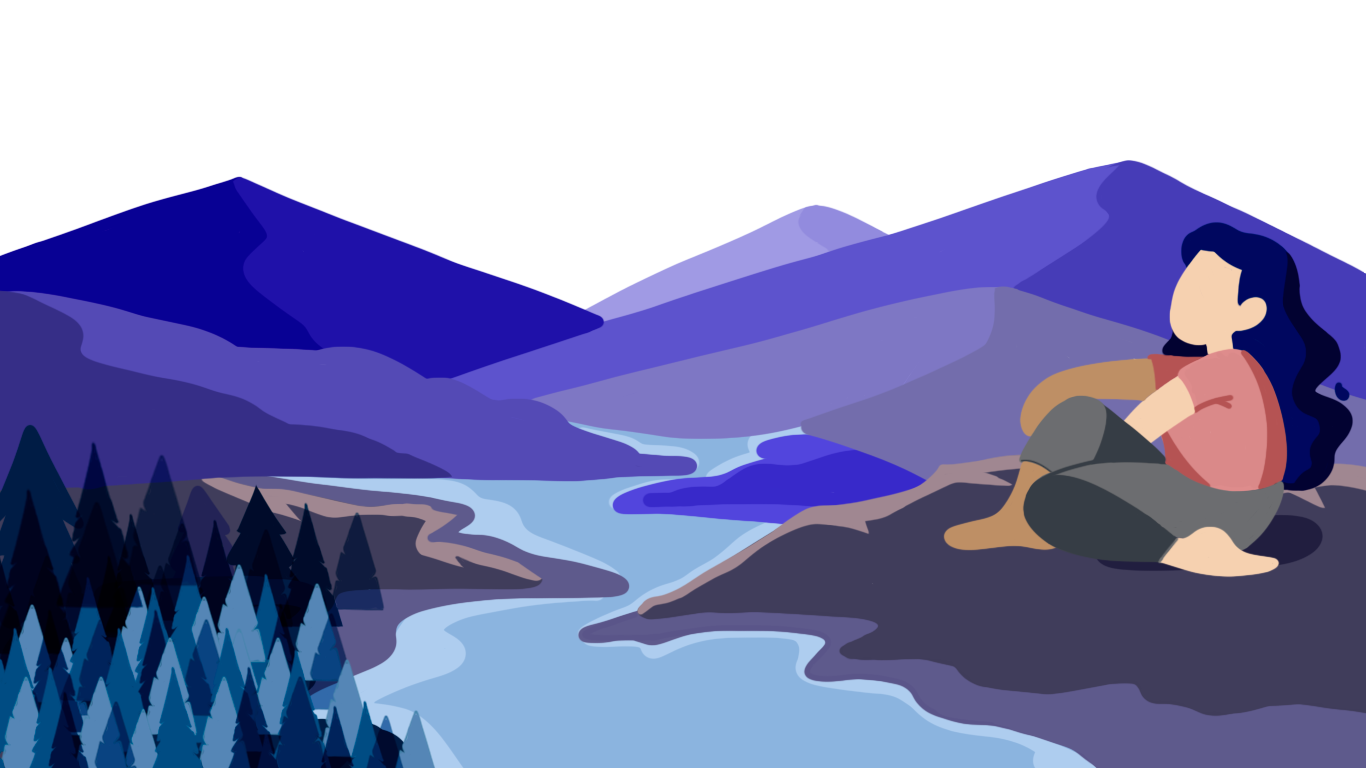
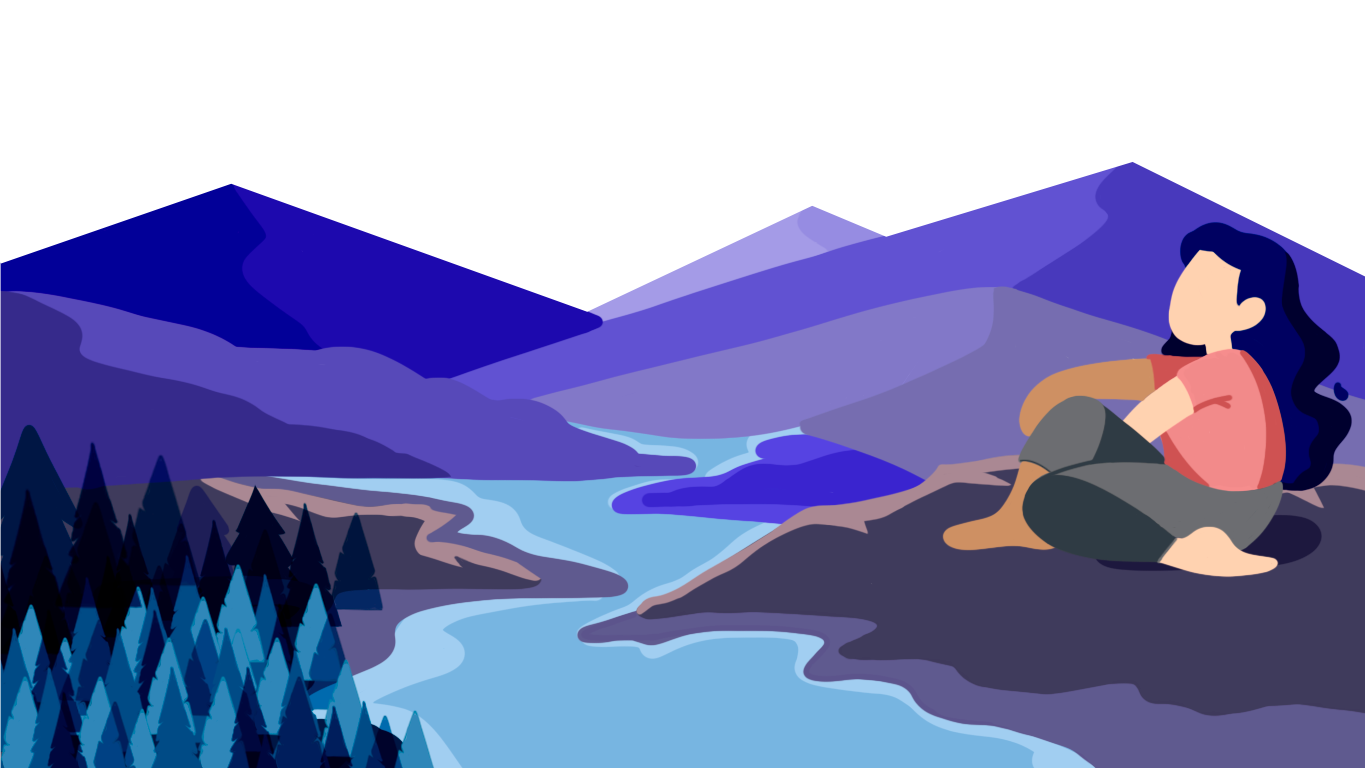
ajustes da tela sobre

diff --git a/src/pages/Sobre/sobre.jsx b/src/pages/Sobre/sobre.jsx
@@ -20,15 +20,19 @@ function Sobre() {
                             A Satus Space tem o propósito de gerar oportunidades e capacitar pessoas de 40 anos ou mais através da educação e da tecnologia ajudando-os a se reinserir no mercado de trabalho.
                         </p>
                     </div>
+
                     <div className="col-md-6">
+
                         <img src={equipe} alt="Imagem da equipe" />
+                        
                     </div>
+                    
 
                 </div>
             </div>
-            <div className="container text-white ">
-                <div className="row g-5">
-                    <div className="col-md-4">
+            <div className="container mt-5 mt-md-1 text-white ">
+                <div className="row sobre-section g-4">
+                    <div className="col-lg-3 col-md-4">
 
                         <div className="mvv-cont">
 
@@ -37,22 +41,22 @@ function Sobre() {
                                 <h2>Missão</h2>
                             </div>
 
-                            <p className="px-3 mt-5">Nossa missão é desenvolver pessoas com mais de 40 anos que almejam trabalhar no ramo da tecnologia.</p>
+                            <p className="px-3">Nossa missão é desenvolver pessoas com mais de 40 anos que almejam trabalhar no ramo da tecnologia.</p>
                         </div>
                     </div>
 
-                    <div className="col-md-4 ">
+                    <div className="col-lg-3 col-md-4">
                         <div className="mvv-cont">
 
                             <div className="text-center">
                                 <img src={visao} alt="Logo" className="mvv mt-5" />
                                 <h2>Visão</h2>
                             </div>
-                            <p className="px-3 mt-5">Ser a plataforma que possibilite o início de uma nova trajetória profissional no mercado da tecnologia para incluir pessoas com baixas oportunidades.</p>
+                            <p className="px-3">Ser a plataforma que possibilite o início de uma nova trajetória profissional no mercado da tecnologia para incluir pessoas com baixas oportunidades.</p>
                         </div>
                     </div>
 
-                    <div className="col-md-4 mb-5 ">
+                    <div className="col-lg-3 col-md-4 mb-5 ">
                         <div className="mvv-cont">
                             <div className="text-center">
 
@@ -60,7 +64,7 @@ function Sobre() {
 
                                 <h2>Valores</h2>
                             </div>
-                            <p className="px-3 mt-5">Inclusão digital, comprometimento, pessoas, inovação, educação, diversidade, ética, transparência.</p>
+                            <p className="px-3">Inclusão digital, comprometimento, pessoas, inovação, educação, diversidade, ética, transparência.</p>
                         </div>
 
                     </div>

diff --git a/src/components/MainHome/index.jsx b/src/components/MainHome/index.jsx
@@ -11,7 +11,7 @@ function MainHomepage(){
         /* <!--Conteúdo Princípal--> */
 
         <main className="container-fluid text-white">
-            <div className="row justify-content-center align-items-center principal ">
+            <div className="row principal ">
                 <div className="col-lg-6 col-md-6 col-sm-12">
                     <div className="">
 
@@ -20,7 +20,7 @@ function MainHomepage(){
                         <img src={fonte} className="img-fluid fonte-main d-block mx-auto" alt="Satus Space"/>
                     </div>
 
-                    <p className="text-white text-center responsive-font">"Se você pensa que não tem mais idade para certas coisas, queremos te dizer que talvez este seja o melhor momento para fazer algumas escolhas."</p>
+                    <p>"Se você pensa que não tem mais idade para certas coisas, queremos te dizer que talvez este seja o melhor momento para fazer algumas escolhas."</p>
 
                     <p className="text-white text-center responsive-font "></p>
 

diff --git a/src/pages/Index/style.css b/src/pages/Index/style.css
@@ -10,9 +10,9 @@ body{
     height: 100vh;    
 }
 
-.red{
+.background-index{
     background-image: url("../../../src/assets/image/backgroundMain.png");
-    height: 100vh;
+    height: 80vh;
     background-position: right top;
     background-repeat: no-repeat;
     width: 100%;
@@ -22,4 +22,16 @@ body{
 
 .nav{
     font-weight: bold;
+}
+
+@media only screen and (max-width: 768px) {
+    .background-index{
+        background-image: url("../../../src/assets/image/backgroundMain.png");
+        height: 60vh;
+        background-position: right top;
+        background-repeat: no-repeat;
+        width: 100%;
+        background-size: cover;
+        margin-bottom: 20px;
+    }
 }

diff --git a/src/components/MainHome/style.css b/src/components/MainHome/style.css
@@ -32,6 +32,9 @@ main .cit{
 
 .principal{
     height: 100%;
+    display: flex;
+    align-items: center;
+    justify-content: center;
 }
 
 .principal h1{
@@ -44,6 +47,7 @@ main .cit{
     width: 90%;
     margin: 0px auto;
     font-size: 1.6em;
+    text-align: center;
     
 }
 
@@ -62,6 +66,20 @@ main .cit{
     border: none;
     width: 9.5em;
     border-radius: 50px;
+}
+
+@media only screen and (max-width: 768px) {
+    .logo-main{
+        width: 160px;
+    }
+    
+    .principal p{
+        width: 90%;
+        margin: 0px auto;
+        font-size: 1.3em;
+        text-align: center;
+        
+    }
 }
 
 

diff --git a/src/pages/Sobre/style.css b/src/pages/Sobre/style.css
@@ -14,16 +14,43 @@
     font-size: 20px;
     text-align: justify;
 }
+
+.sobre-section{
+    display: flex;
+    justify-content: center;
+}
+
+
 .mvv{
     width: 100px;
     height: 100px;
 }
 
 .mvv-cont{
+    margin-top: 100px;
     background-color:#202024;
     border-color: #ececf5;
     border-style: solid; 
-    height: 400px;
+    height: 500px;
+}
+
+.mvv-cont p{
+    margin-top: 100px;
+}
+
+@media only screen and (max-width: 768px) {
+
+    .mvv-cont{
+        margin-top: 10px;
+        height: 350px;
+    }
+
+    .mvv-cont p{
+        margin-top: 50px;
+        text-align: center;
+    }
+
+    
 }
 
 

diff --git a/src/pages/Index/index.jsx b/src/pages/Index/index.jsx
@@ -12,7 +12,7 @@ function Index(){
         <div>
             <main className="upperPart">  <NavBar/> <MainHomepage/>   </main>            
             <SectionHomepage/>
-            <div className="red"></div>
+            <div className="background-index"></div>
             <Footer/>            
         </div>
     )

diff --git a/src/components/SectionHome/style.css b/src/components/SectionHome/style.css
@@ -1,6 +1,6 @@
 .section-index{
-    background-image: linear-gradient(to bottom, var(--cor06) , black 40% );
-    height: 100vh;
+    background-image: linear-gradient(to bottom, var(--cor06) , var(--cor50) 40% );
+    height: 80vh;
     position: relative;
 }
 
